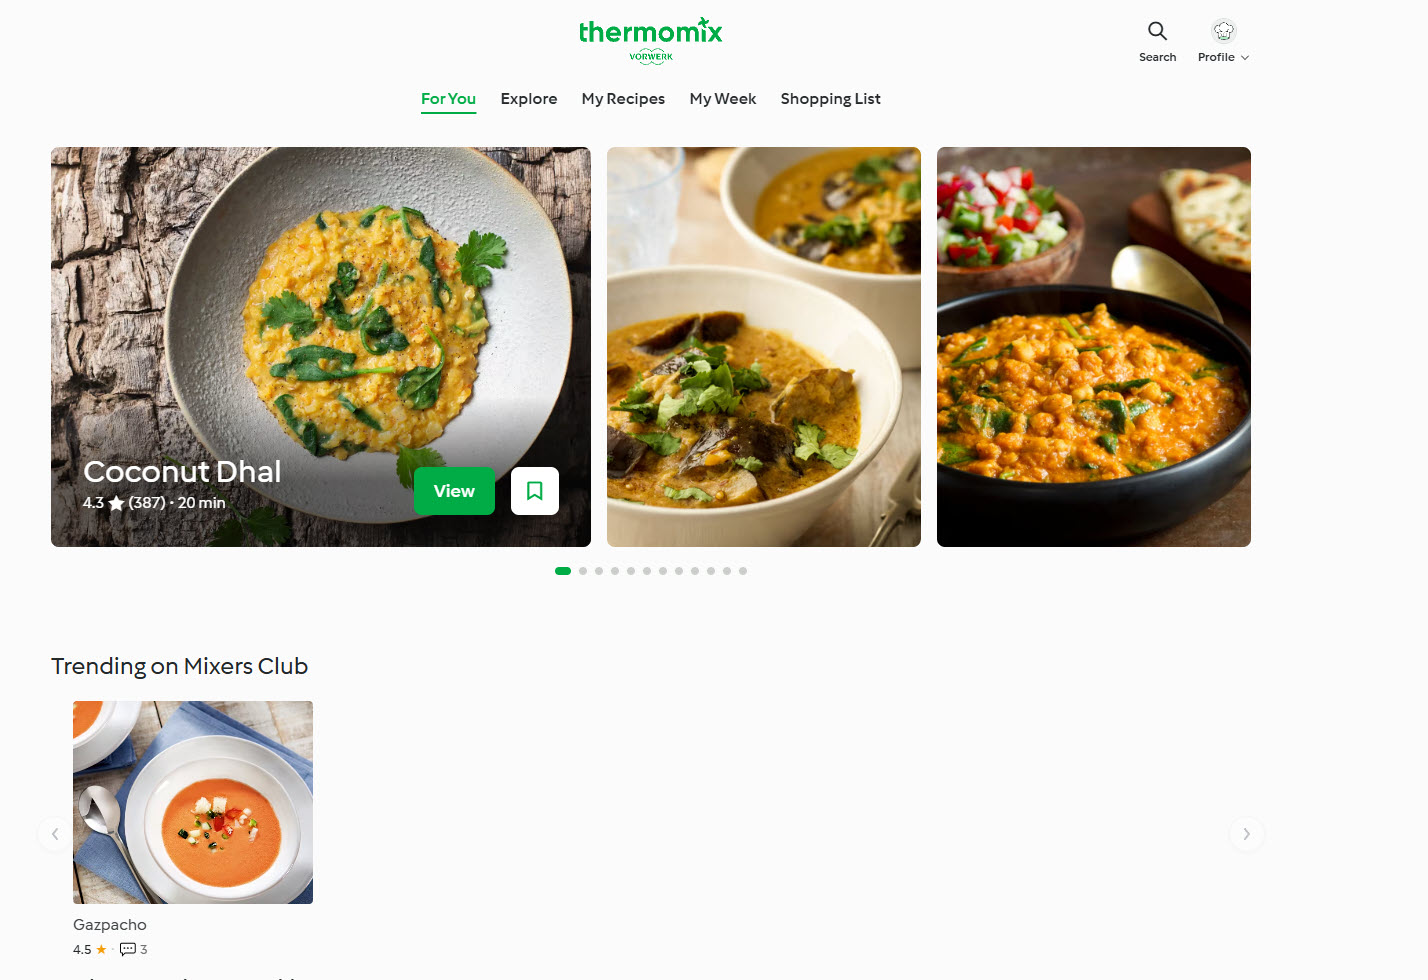
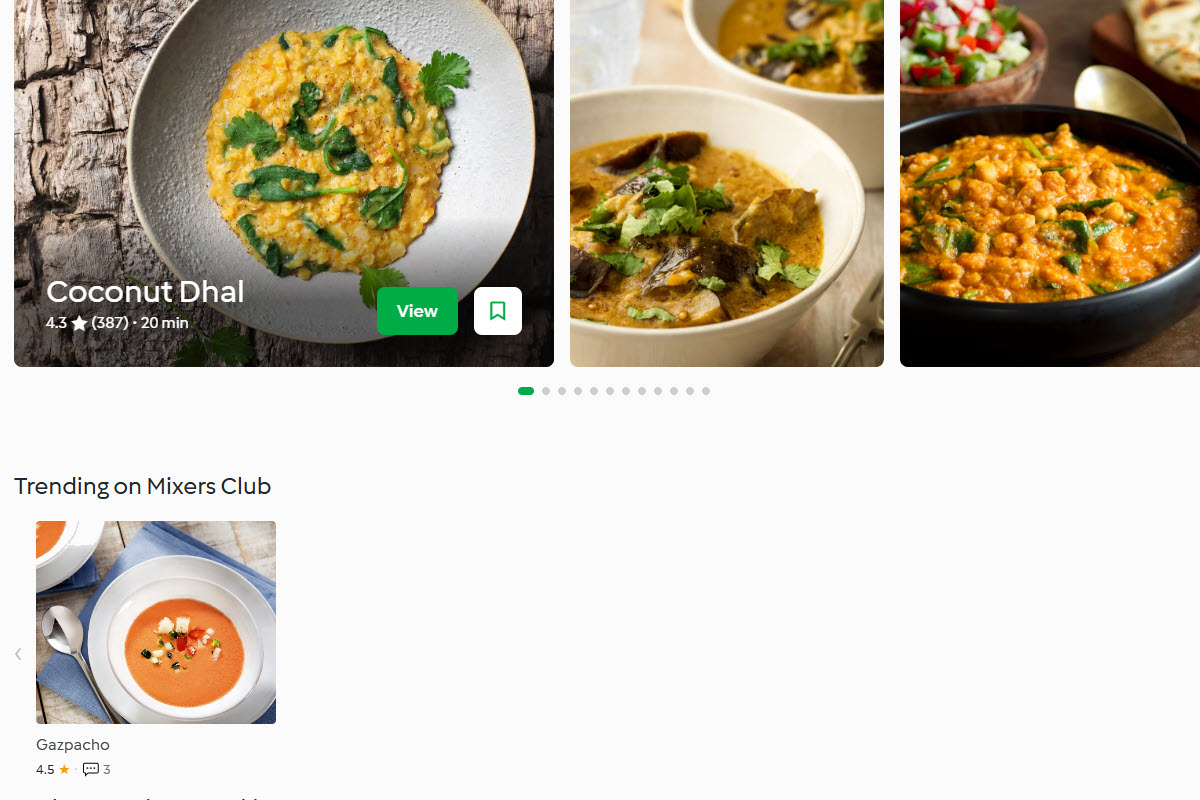
chore: updated screenshots to fit store size

diff --git a/src/content-script/auth-modal.ts b/src/content-script/auth-modal.ts
@@ -119,7 +119,9 @@ export function showAuthModal(onAuthenticated: () => void): void {
       btn.disabled = true
       btn.textContent = t('authSending')
       errorEl.style.display = 'none'
-      const result = await send({ action: 'sendMagicLink', email, redirectTo: window.location.href })
+      const redirectTo = window.location.href
+      console.log('[Mixers Club] sendMagicLink redirectTo:', redirectTo)
+      const result = await send({ action: 'sendMagicLink', email, redirectTo })
       if (result.error) {
         errorEl.textContent = friendlyError(result.error ?? '')
         errorEl.style.display = ''

diff --git a/src/content-script/error-map.ts b/src/content-script/error-map.ts
@@ -5,6 +5,6 @@ export function friendlyError(raw: string): string {
   if (raw.includes('users_username_key'))          return t('errUsernameTaken')
   if (raw.includes('users_username_check'))         return t('errInputTooLong')
   if (raw.includes('reviews_body_length_check'))    return t('errInputTooLong')
-  if (raw.includes('Email rate limit exceeded'))    return t('errEmailRateLimit')
+  if (/email rate limit|over_email_send_rate_limit|security purposes/i.test(raw)) return t('errEmailRateLimit')
   return t('errGeneric')
 }